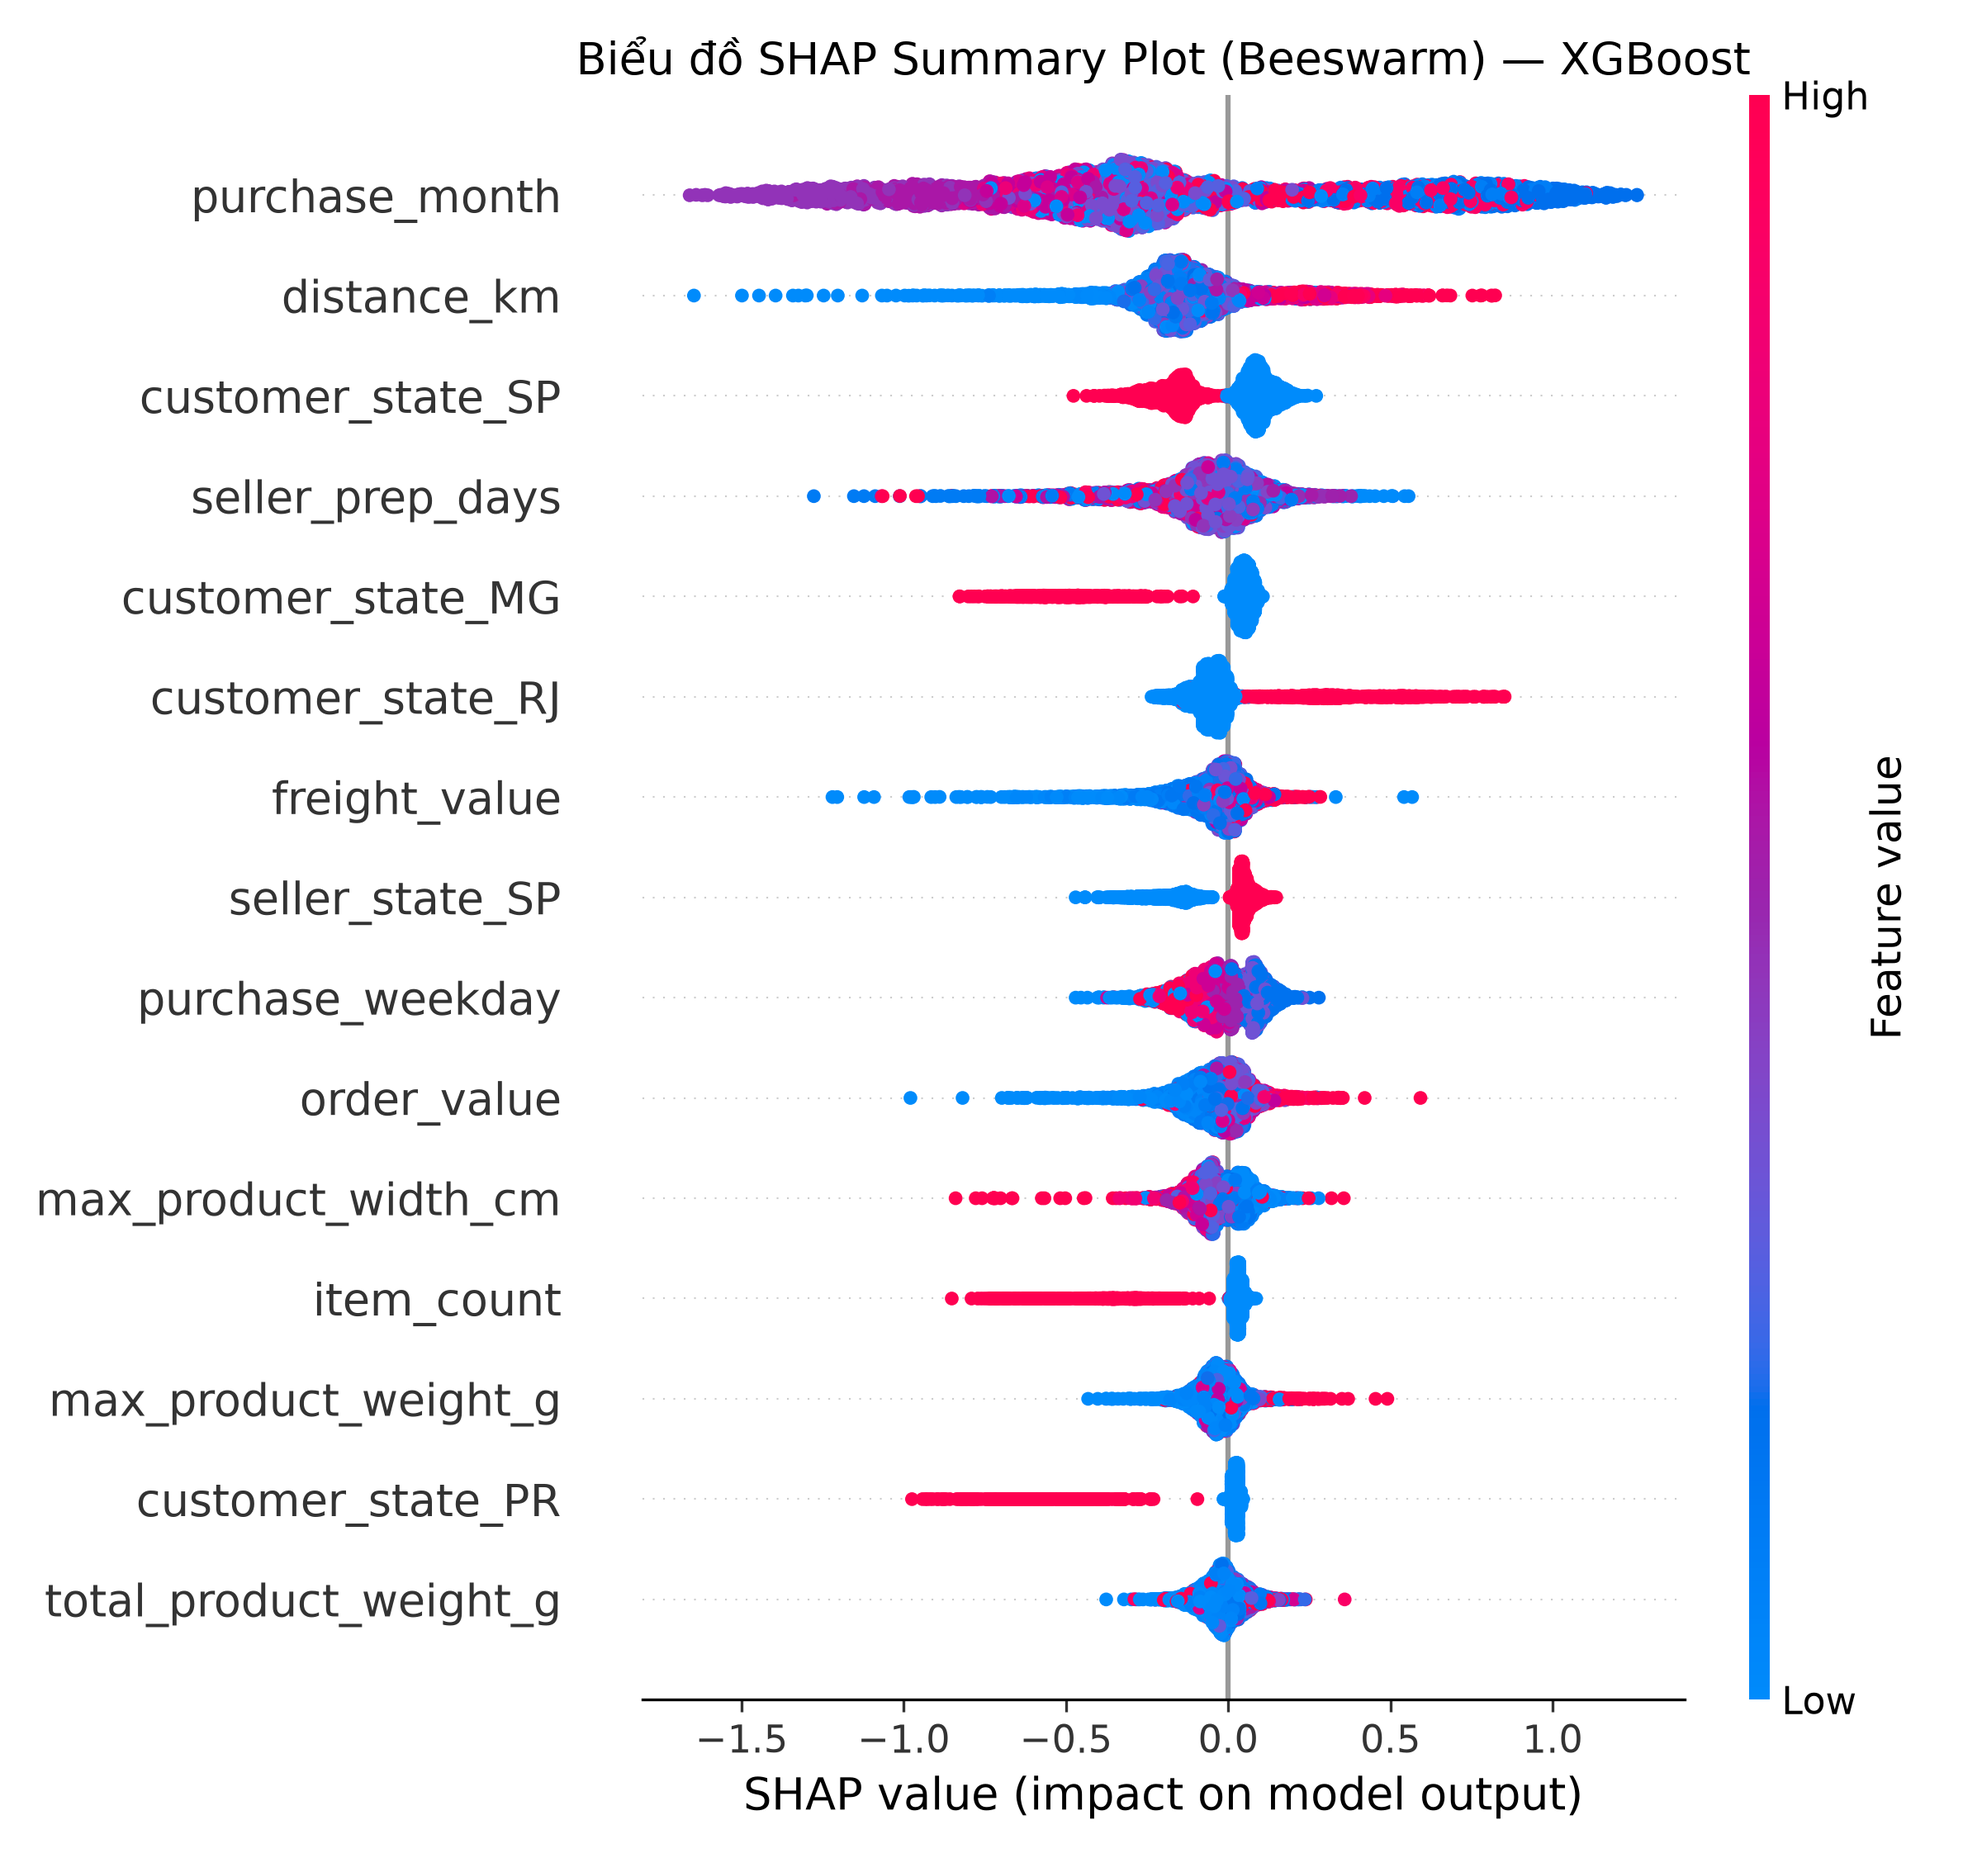
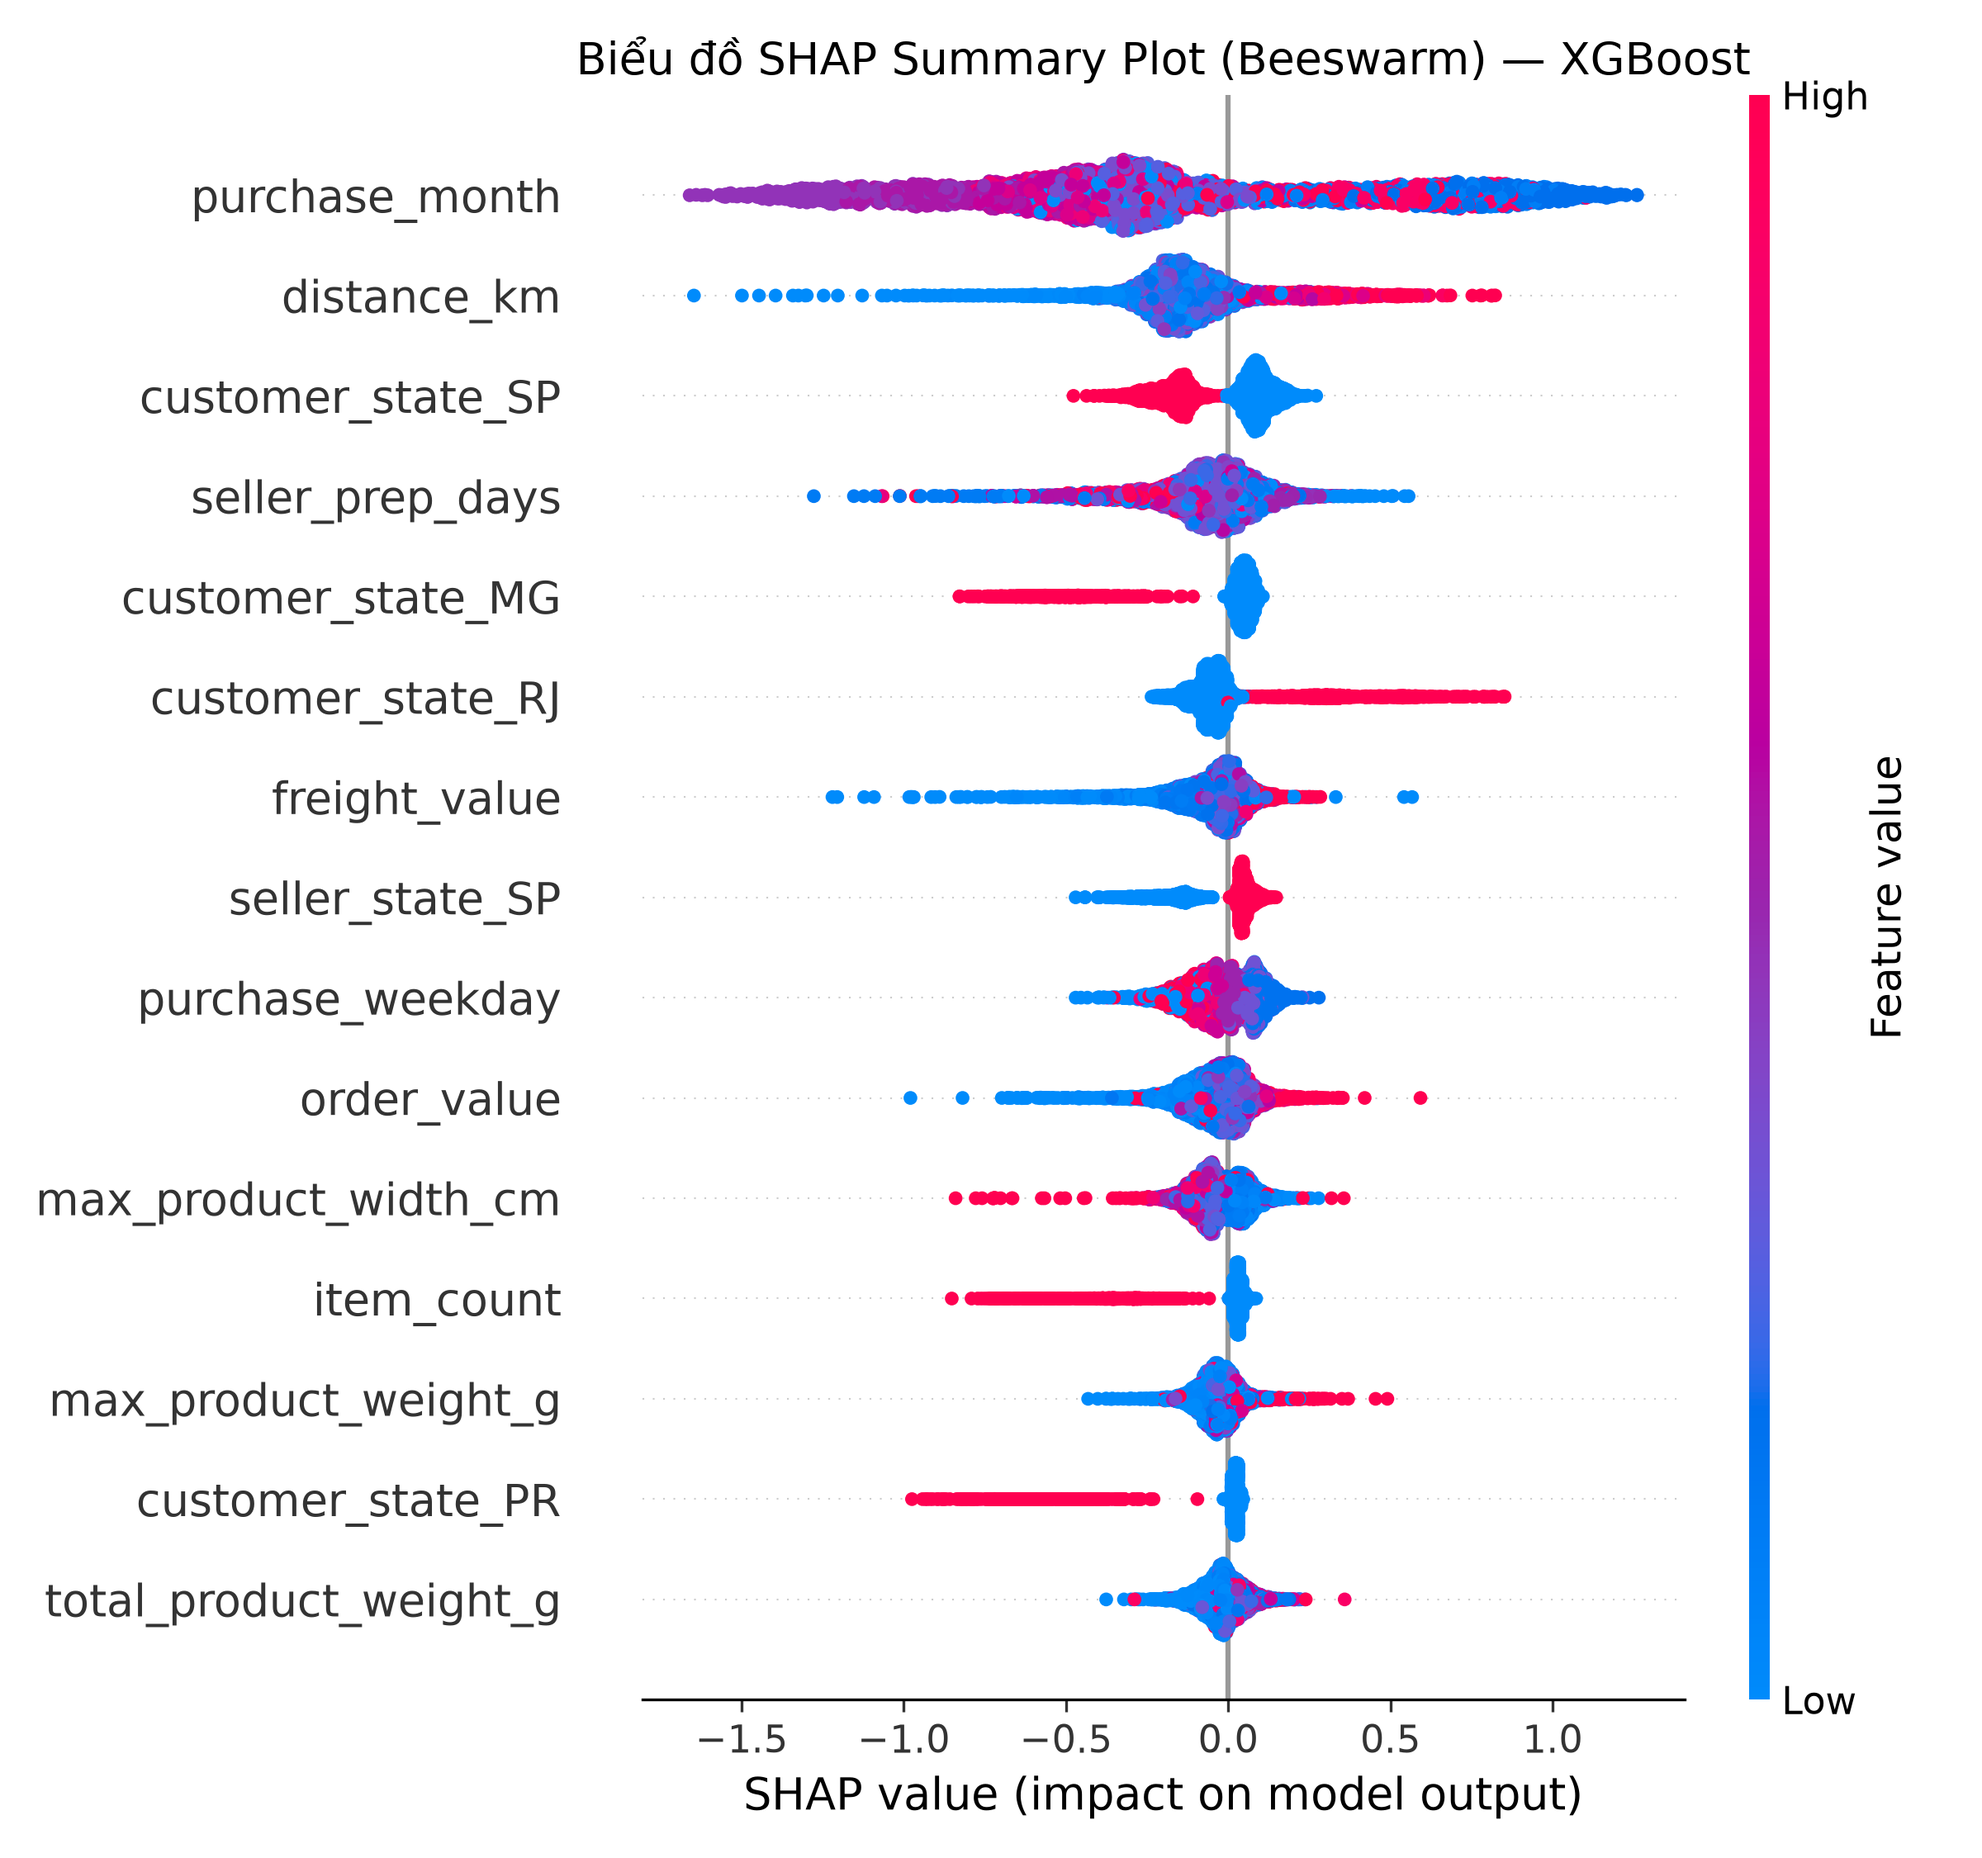
feat(ml): update prediction write-back to only target olist_ml

diff --git a/ml/train_model.py b/ml/train_model.py
@@ -45,7 +45,6 @@ os.makedirs(MODELS_DIR, exist_ok=True)
 PROJECT_ID = "olist-lakehouse-511407"
 SOURCE_TABLE = f"`{PROJECT_ID}.olist_ml.ml_wide_table`"
 TARGET_TABLE_ML = f"{PROJECT_ID}.olist_ml.order_predictions"
-TARGET_TABLE_GOLD = f"{PROJECT_ID}.olist_gold.order_predictions"
 
 # Danh sách đặc trưng đầu vào theo lược đồ bảng phẳng đã phê duyệt
 NUM_COLS = [
@@ -62,7 +61,7 @@ ID_COL = "order_id"
 def main():
     start_time = time.time()
     print("=" * 75)
-    print("BẮT ĐẦU QUY TRÌNH HỌC MÁY — DỰ BÁO NGUY CƠ GIAO HÀNG TRỄ (TV3)")
+    print("BẮT ĐẦU QUY TRÌNH HỌC MÁY — DỰ BÁO NGUY CƠ GIAO HÀNG TRỄ ")
     print("=" * 75)
 
     # -------------------------------------------------------------------------
@@ -307,8 +306,8 @@ def main():
 
     # -------------------------------------------------------------------------
     # 3.4.4. Cập nhật kết quả dự báo ngược lại kho dữ liệu (Write-back)
-    # Cấu trúc chuẩn 7 cột theo đúng phân công trong CHƯƠNG 3.docx:
-    # order_id, prediction_date, late_probability, predicted_late, risk_level,
+    # Cấu trúc chuẩn 6 cột theo đúng phân công trong CHƯƠNG 3.docx:
+    # order_id, late_probability, predicted_late, risk_level,
     # top_risk_factor_1, top_risk_factor_2
     # -------------------------------------------------------------------------
     print("\n[3.4.4] Tạo bảng kết quả dự báo order_predictions và đẩy lên BigQuery...")
@@ -359,21 +358,16 @@ def main():
         "top_risk_factor_2": top_factor_2_list
     })
 
-    print(f"-> Bảng kết quả dự báo có {len(predictions_df)} dòng (đúng 6 cột theo CHƯƠNG 3):")
+    print(f"-> Bảng kết quả dự báo có {len(predictions_df)} dòng :")
     print(predictions_df.head())
     print(predictions_df["risk_level"].value_counts())
 
-    # Ghi dữ liệu vào BigQuery dataset olist_ml và olist_gold
+    # Ghi dữ liệu vào BigQuery dataset olist_ml
     print(f"\n-> Đang xuất bảng kết quả vào BigQuery: {TARGET_TABLE_ML}...")
     job_config = bigquery.LoadJobConfig(write_disposition="WRITE_TRUNCATE")
     job_ml = client.load_table_from_dataframe(predictions_df, TARGET_TABLE_ML, job_config=job_config)
     job_ml.result()
     print(f"-> Ghi thành công vào {TARGET_TABLE_ML}!")
-
-    print(f"-> Đang đồng bộ hóa sang tầng Gold: {TARGET_TABLE_GOLD}...")
-    job_gold = client.load_table_from_dataframe(predictions_df, TARGET_TABLE_GOLD, job_config=job_config)
-    job_gold.result()
-    print(f"-> Ghi thành công vào {TARGET_TABLE_GOLD}!")
 
     # Mẫu 5 dòng đầu
     print("\n--- MẪU 5 DÒNG ĐẦU BẢNG KẾT QUẢ DỰ BÁO ---")
@@ -381,7 +375,7 @@ def main():
 
     total_duration = time.time() - start_time
     print(f"\n{'=' * 75}")
-    print(f"HOÀN TẤT TOÀN BỘ PIPELINE ML CỦA THÀNH VIÊN 3 TRONG {total_duration:.2f} GIÂY!")
+    print(f"HOÀN TẤT TOÀN BỘ PIPELINE ML TRONG {total_duration:.2f} GIÂY!")
     print(f"{'=' * 75}")
 
 if __name__ == "__main__":
